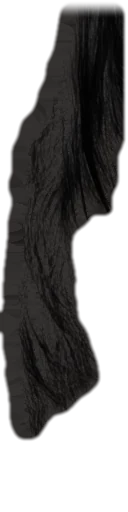
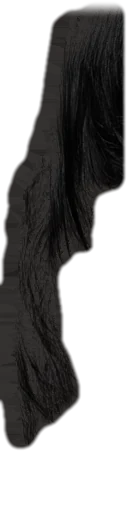
Маска «Жорун»: волосы с затылка не вылезают у щёк, без дыр на висках
Как в масках для Instagram/Snapchat: у головы есть невидимые «уши» — за ними прячутся
волосы с затылка, поэтому спереди сбоку от лица больше нет тёмной дуги до челюсти.
Сзади кок закрыт целиком (была круглая дыра на затылке), за ушами и на шее волосы
короткие и плотные. Висок от лица до пышного бока закрыт, бакенбарды начинаются от угла лба
и идут без разрывов.

Claude-Session: https://claude.ai/code/session_016M6J2TNt3QbNgW8MiMyq71

diff --git a/mask/mask.js b/mask/mask.js
@@ -6,7 +6,7 @@
 import { CANON_V, CANON_F, CANON_UV } from "./face-canon.js";
 
 const BASE = new URL("./", import.meta.url).href;
-const VQ = "?v=3";   // версия ресурсов маски: после обновления браузер не смешает старые файлы с новыми
+const VQ = "?v=4";   // версия ресурсов маски: после обновления браузер не смешает старые файлы с новыми
 const DEG = Math.PI / 180;
 
 /* ---------------- математика */
@@ -265,6 +265,15 @@ function ellipsoid(c, a){
   for (let j = 0; j < NV; j++) for (let i = 0; i < NU; i++) { const A = j * NU + i, B = j * NU + (i + 1) % NU; idx.push(A, A + NU, B, B, A + NU, B + NU); }
   return { p: new Float32Array(p), n: new Float32Array(n), idx: new Uint16Array(idx) };
 }
+function earOcc(side){ // ухо: эллипсоид за краем лица, верх отклонён назад — за ушами прячутся волосы с затылка
+  const e = ellipsoid([0, 0, 0], [1.3, 3.1, 2.0]), a = 15 * DEG, c = Math.cos(a), s = Math.sin(a);
+  for (let i = 0; i < e.p.length; i += 3) {
+    const y = e.p[i + 1], z = e.p[i + 2], ny = e.n[i + 1], nz = e.n[i + 2];
+    e.p[i] += side * 8.0; e.p[i + 1] = y * c + z * s + 1.2; e.p[i + 2] = -y * s + z * c - 6.1;   // спереди не заходит на бакенбарды
+    e.n[i + 1] = ny * c + nz * s; e.n[i + 2] = -ny * s + nz * c;
+  }
+  return e;
+}
 function neck(){ // шея: закрывает то, что у затылка уходит ниже челюсти
   const p = [], n = [], idx = [], NU = 32, ys = [-3.6, -9, -16, -26];
   for (const y of ys) for (let i = 0; i < NU; i++) { const a = 2 * Math.PI * i / NU; p.push(5.4 * Math.cos(a), y, -4.8 + 5.8 * Math.sin(a)); n.push(Math.cos(a), 0, Math.sin(a)); }
@@ -337,9 +346,9 @@ class Renderer {
     const occOff = new Float32Array(468);
     for (let i = 0; i < 468; i++) { const ax = Math.abs(CANON_V[i * 3]); occOff[i] = -0.7 * clamp((ax - 5.5) / 2.1, 0, 1); }
     this.faceOcc = vao(gl, [[1, N, 3], [2, uv, 2], [3, occOff, 1], [5, ids, 1, true]], new Uint16Array(CANON_F));
-    const sk = ellipsoid(HC, HA.map(a => a - 0.6)), nk = neck();
+    const sk = ellipsoid(HC, HA.map(a => a - 0.6)), nk = neck();   // больше нельзя: на широком лице череп вылезает сквозь виски и съедает бакенбарды
     const rig = m => vao(gl, [[0, m.p, 3], [1, m.n, 3], [2, new Float32Array(m.p.length / 3 * 2), 2], [3, new Float32Array(m.p.length / 3).fill(1), 1]], m.idx);
-    this.skull = rig(sk); this.neck = rig(nk);
+    this.skull = rig(sk); this.neck = rig(nk); this.ears = [rig(earOcc(-1)), rig(earOcc(1))];
     // бакенбарды: [nv, ni] uint16; nv×(i0, i1) uint16; nv×(w, d3, n3, uv2) float32; ni индексов
     const bb = assets.burns, nv = bb[0] | (bb[1] << 8), ni = bb[2] | (bb[3] << 8);
     const bi = new Uint16Array(bb.slice(4, 4 + nv * 4).buffer), bf = new Float32Array(bb.slice(4 + nv * 4, 4 + nv * 40).buffer);
@@ -392,7 +401,7 @@ class Renderer {
     gl.disable(gl.BLEND);
     if (!this.debug) gl.colorMask(false, false, false, false);
     let u = use(this.pBoundDepth); gl.uniform1f(u.u_off, this.debug ? 0 : -0.25); draw(this.faceOcc);
-    use(this.pRigidDepth); draw(this.skull); draw(this.neck);
+    use(this.pRigidDepth); draw(this.skull); draw(this.neck); for (const e of this.ears) draw(e);
     gl.colorMask(true, true, true, true);
     // 2) кок
     gl.enable(gl.BLEND); gl.blendFunc(gl.ONE, gl.ONE_MINUS_SRC_ALPHA);

diff --git a/index.html b/index.html
@@ -870,7 +870,7 @@ function maskActive(){ return MASK.want !== "none" && !!MASK.obj && S.cam && S.m
 function loadMask(){
   if (MASK.obj || MASK.loading || MASK.unsupported) return MASK.loading;
   MASK.failed = false; MASK.progress = 0;
-  MASK.loading = import("./mask/mask.js?v=3")
+  MASK.loading = import("./mask/mask.js?v=4")
     .then(m => m.createMask({onProgress: p => { MASK.progress = p; updateMaskUI(); }}))
     .then(obj => { MASK.obj = obj; })
     .catch(e => {
